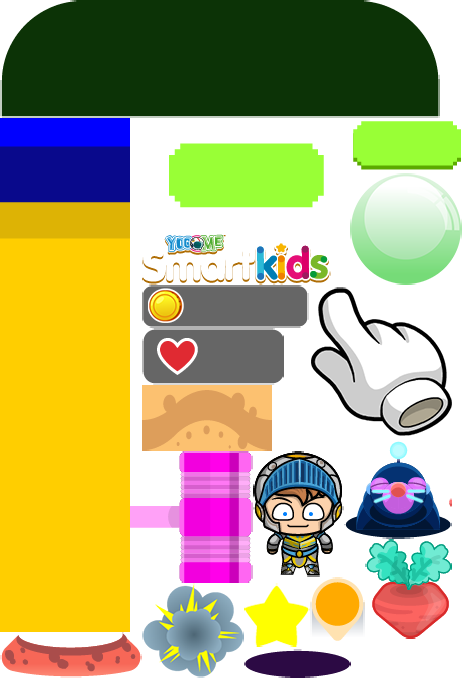
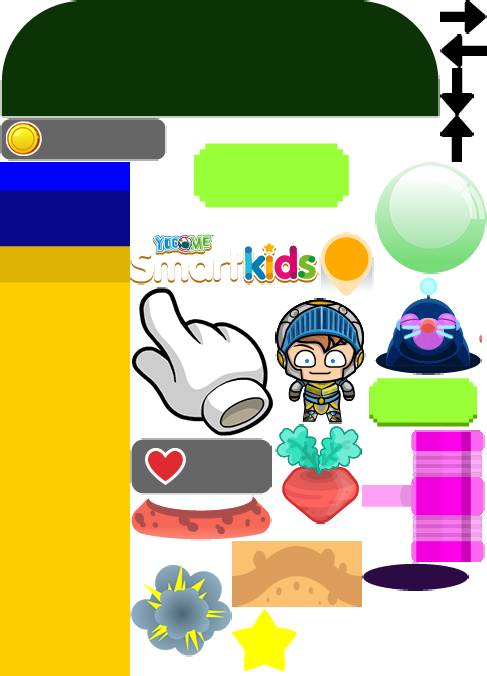
Commit hackamole for QA

diff --git a/newStructure/minigames/hackaMole/js/scenes/hack.js b/newStructure/minigames/hackaMole/js/scenes/hack.js
@@ -26,7 +26,7 @@ var hack = function(){
 	}
     
 
-	assets = {
+	var assets = {
         atlases: [
             {   
                 name: "atlas.hack",
@@ -136,7 +136,7 @@ var hack = function(){
 		pivotDrag = game.world.height - 200
 		pivotButtons = game.world.centerX - 220
 		pivotInit = pivotButtons
-		arrowsList = ['↑','↓','←','→']
+		arrowsList = ['arrow_4','arrow_3','arrow_2','arrow_1']
 		directionList = ['up','down','left','right']
 		moveSpace = 150
 		lastTile = []
@@ -388,14 +388,18 @@ var hack = function(){
 		
 		var textToUse = direction
 		
-		obj.text.setText('')
-		obj.text2.setText('')
+		//obj.text.setText('')
+		//obj.text2.setText('')
 				
-		if(directionList[indexToUse] != 'down' && directionList[indexToUse]!='up'){
-			obj.text.setText(textToUse)
-		}else{
-			obj.text2.setText(textToUse)
-		}
+		//if(directionList[indexToUse] != 'down' && directionList[indexToUse]!='up'){
+			var arrow = game.add.sprite(0,0,'atlas.hack',textToUse);
+			arrow.anchor.setTo(0.5,0.5);
+			arrow.scale.setTo(0.8,0.8);
+			obj.children[0].addChild(arrow);
+			//obj.text.setText(textToUse)
+		//}else{
+			//obj.text2.setText(textToUse)
+		//}
 											   
 		
 		obj.tag = directionList[indexToUse]
@@ -716,56 +720,56 @@ var hack = function(){
 
 	function createSingleButton(){
 
-		var offset = -5
+		//var offset = -5;
 		
-		if(game.device.desktop){
-			offset = 5
-		}
+		//if(game.device.desktop){
+			//offset = 5;
+		//}
 
-		var group = game.add.group()
-		group.x = game.world.centerX
-		group.y = -200
-		group.alpha = 0
-		buttonsGroup.add(group)
+		var group = game.add.group();
+		group.x = game.world.centerX;
+		group.y = -200;
+		group.alpha = 0;
+		buttonsGroup.add(group);
 		
-		var buttonImage = group.create(0,0,'atlas.hack','dragobject')
-		buttonImage.anchor.setTo(0.5,0.5)
-		buttonImage.scale.setTo(1.2,1.2)
+		var buttonImage = group.create(0,0,'atlas.hack','dragobject');
+		buttonImage.anchor.setTo(0.5,0.5);
+		buttonImage.scale.setTo(1.2,1.2);
 		
-		var fontStyle = {font: "55px VAGRounded", fontWeight: "bold", fill: "#000000", align: "center", wordWrap: true, wordWrapWidth: 220}
+		/*var fontStyle = {font: "55px VAGRounded", fontWeight: "bold", fill: "#000000", align: "center", boundsAlignH: "center", boundsAlignV: "middle", wordWrap: true, wordWrapWidth: 220}
 		
 		var pointsText = new Phaser.Text(sceneGroup.game, 0, offset, "", fontStyle)
-		pointsText.anchor.setTo(0.5,0.5)
+		pointsText.anchor.setTo(0.5,0.5);
 		//group.add(pointsText)
-		buttonImage.addChild(pointsText)
+		buttonImage.addChild(pointsText);
 		
-		group.text = pointsText
+		group.text = pointsText;
 		
-		var fontStyle = {font: "60px VAGRounded", fontWeight: "bold", fill: "#000000", align: "center", wordWrap: true, wordWrapWidth: 220}
+		var fontStyle = {font: "60px VAGRounded", fontWeight: "bold", fill: "#000000", align: "center", boundsAlignH: "center", boundsAlignV: "middle", wordWrap: true, wordWrapWidth: 220}
 		
 		var pointsText = new Phaser.Text(sceneGroup.game, 0, offset * 0.5, "", fontStyle)
-		pointsText.scale.y = 0.7
-		pointsText.anchor.setTo(0.5,0.5)
+		pointsText.scale.y = 0.7;
+		pointsText.anchor.setTo(0.5,0.5);
 		//group.add(pointsText)
-		buttonImage.addChild(pointsText)
+		buttonImage.addChild(pointsText);
 		
-		group.text2 = pointsText
+		group.text2 = pointsText;*/
 		
-		var dragImage = sceneGroup.create(83,-200,'atlas.hack','dragobject')
-		dragImage.anchor.setTo(0.5,0.5)
-		dragImage.alpha = 0
-		group.drag = dragImage
+		var dragImage = sceneGroup.create(83,-200,'atlas.hack','dragobject');
+		dragImage.anchor.setTo(0.5,0.5);
+		dragImage.alpha = 0;
+		group.drag = dragImage;
 		
-		dragImage.active = true
-		dragImage.inputEnabled = true
-		dragImage.input.enableDrag(true)
+		dragImage.active = true;
+		dragImage.inputEnabled = true;
+		dragImage.input.enableDrag(true);
 		dragImage.events.onDragStart.add(onDragStart, this);
 		dragImage.events.onDragStop.add(onDragStop, this);
-		dragImage.tween = null
-		dragImage.button = group
+		dragImage.tween = null;
+		dragImage.button = group;
 		
-		group.active = false
-		group.tag = null
+		group.active = false;
+		group.tag = null;
 	}
 	
 	function checkButtons(){
@@ -1277,30 +1281,30 @@ var hack = function(){
 		update: update,
         preload:preload,getGameData:function () { var games = yogomeGames.getGames(); return games[gameIndex];},
 		create: function(event){
-			//parent._QUANTRIX.Mixpanel.startMinigame()
 
-			sceneGroup = game.add.group(); yogomeGames.mixpanelCall("enterGame",gameIndex,lives,parent.epicModel); 
+			sceneGroup = game.add.group(); 
+			yogomeGames.mixpanelCall("enterGame",gameIndex,lives,parent.epicModel); 
 			
-			addMusic()
-			createBackground()
+			addMusic();
+			createBackground();
 			
-            initialize()
+            initialize();
 			
-			createHoles()
-			createObjects()
-            createInterface()
-			createButtons()
+			createHoles();
+			createObjects();
+            createInterface();
+			createButtons();
 			            
-			createPointsBar()
-			createHearts()
-            createCoin()
-			createParticles()
+			createPointsBar();
+			createHearts();
+            createCoin();
+			createParticles();
 			
-			buttons.getButton(medievalSong,sceneGroup)
+			buttons.getButton(medievalSong,sceneGroup);
 			
-            createOverlay()
+            createOverlay();
             this.game.canvas.oncontextmenu = function (e) { e.preventDefault(); }
-            animateScene()
+            animateScene();
             
 		},
 	}
